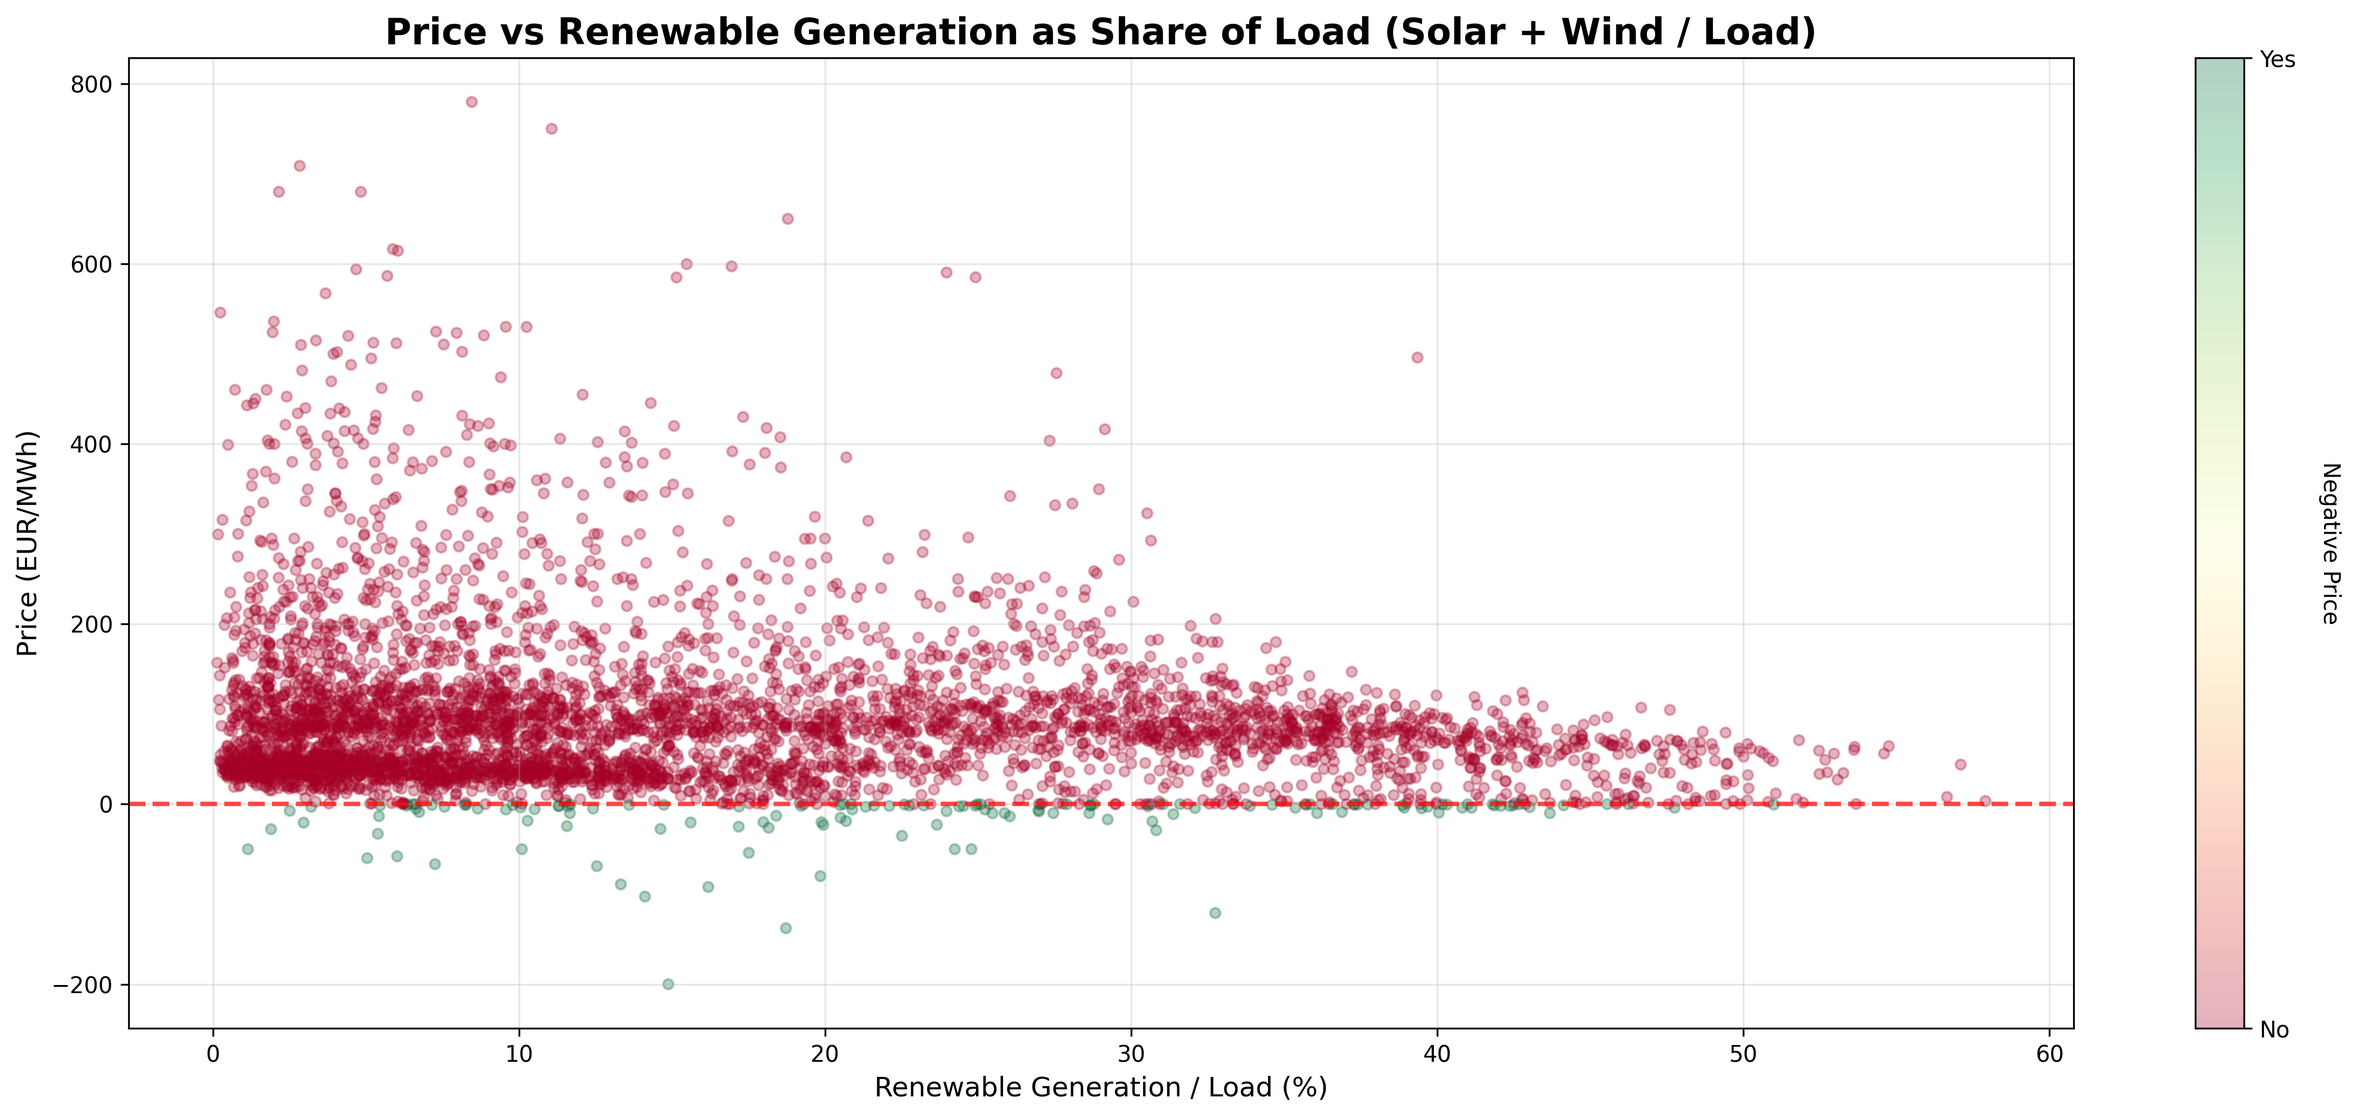
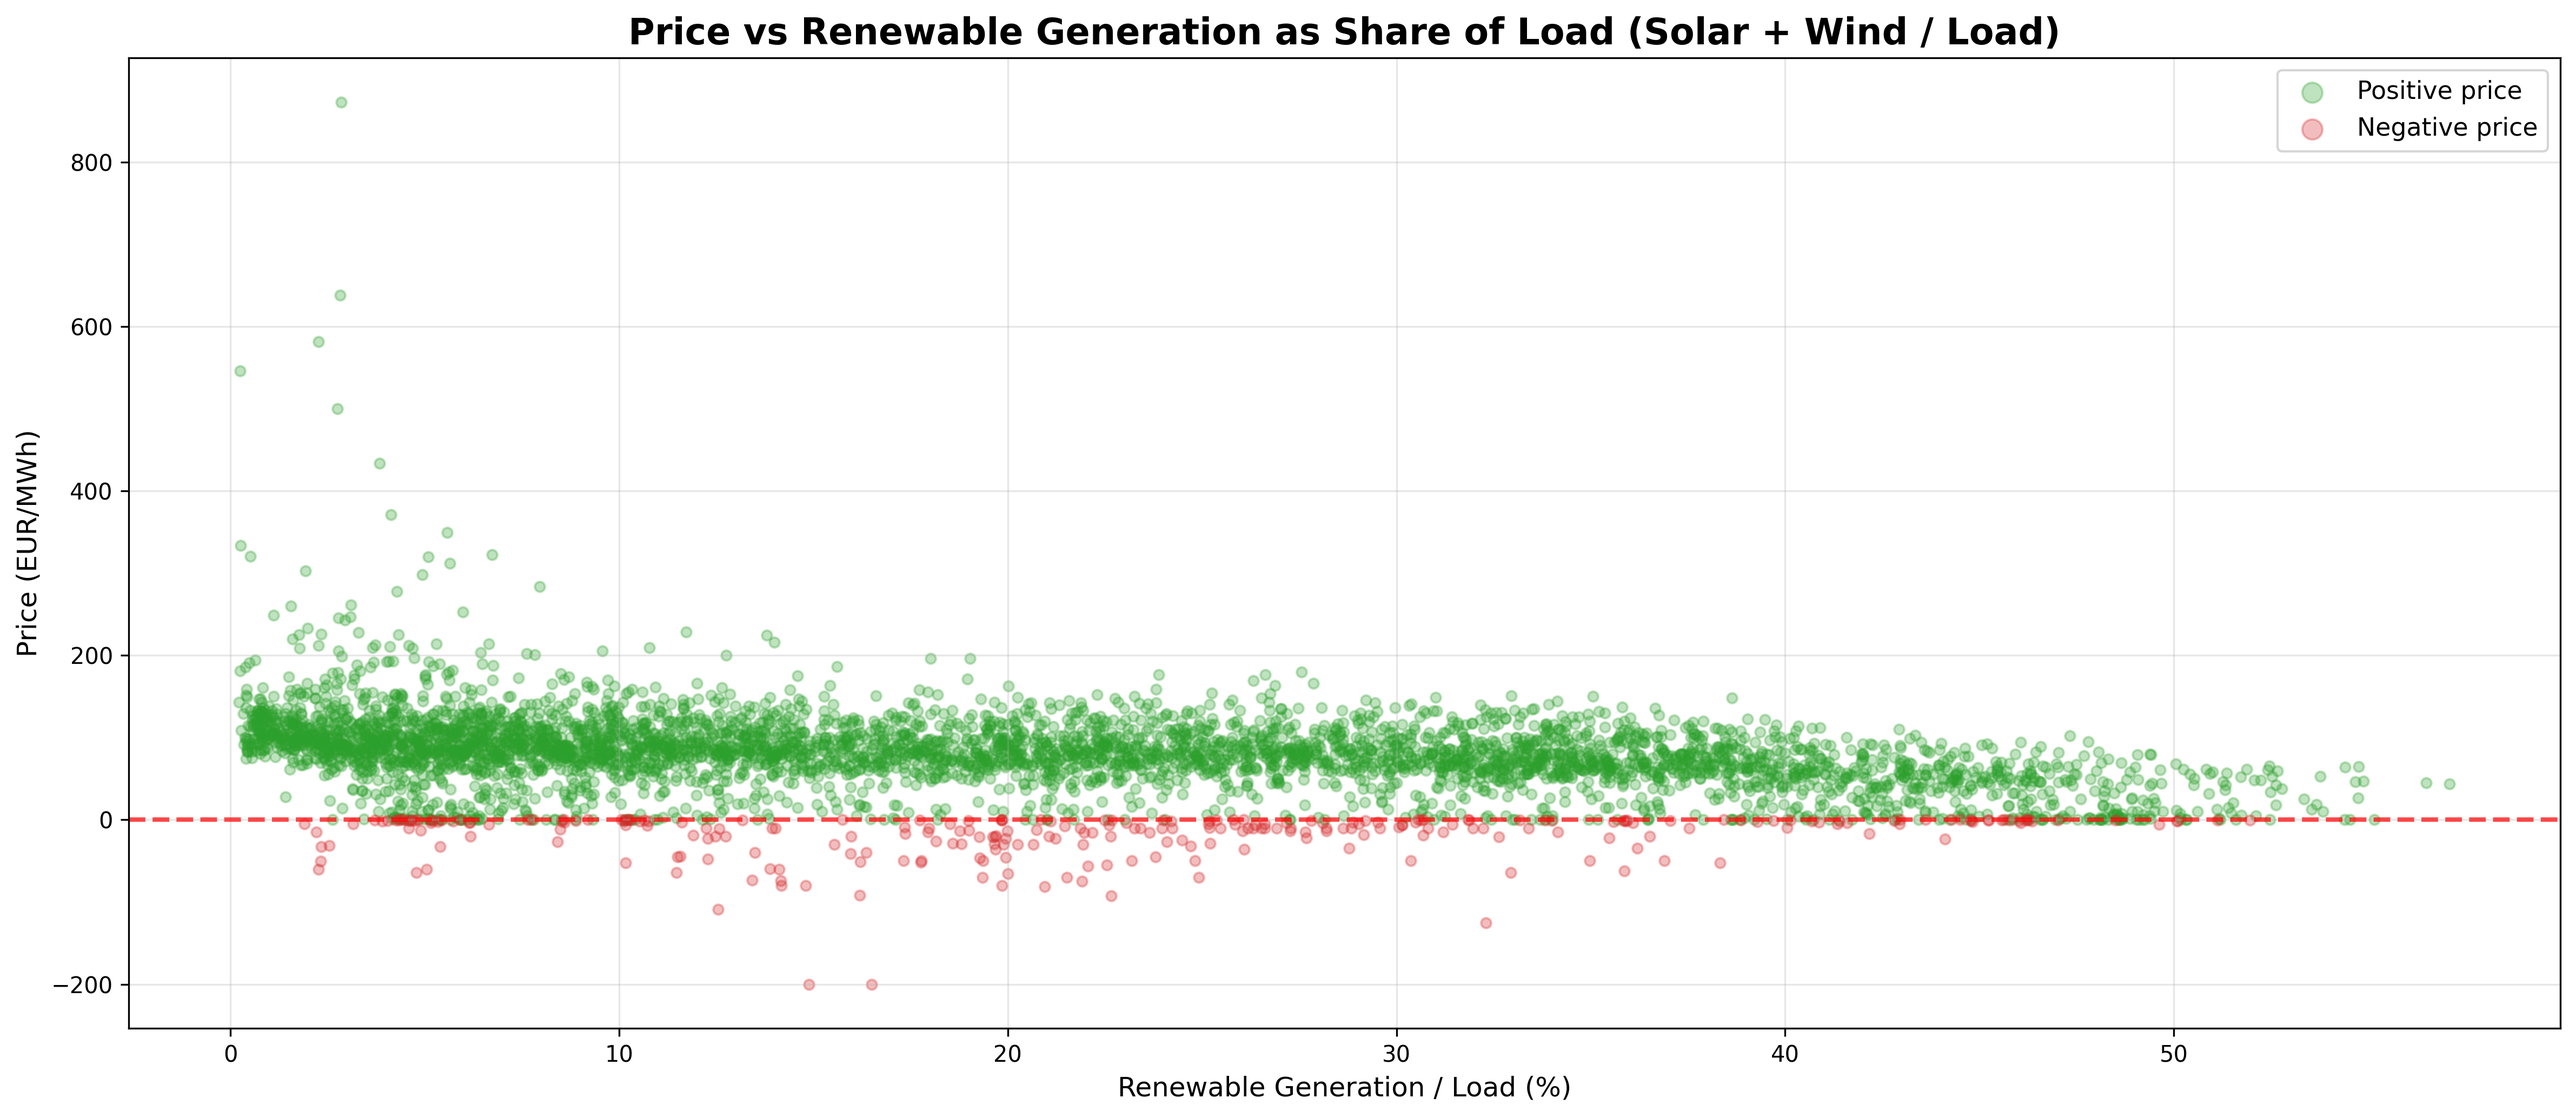
Changes to scatter plot formats

diff --git a/scripts/exploratory_analysis.py b/scripts/exploratory_analysis.py
@@ -342,30 +342,30 @@ sample = merged.sample(n=min(5000, len(merged)), random_state=42)
 fig, axes = plt.subplots(1, 2, figsize=(16, 7))
 
 # Scatter: Solar vs Price
-axes[0].scatter(sample['solar'], sample['price'],
-                alpha=0.3, s=20, c=sample['is_negative'],
-                cmap='RdYlGn', vmin=0, vmax=1)
+mask_pos = sample['is_negative'] == 0
+mask_neg = sample['is_negative'] == 1
+axes[0].scatter(sample.loc[mask_pos, 'solar'], sample.loc[mask_pos, 'price'],
+                alpha=0.3, s=20, color='#2ca02c', label='Positive price')
+axes[0].scatter(sample.loc[mask_neg, 'solar'], sample.loc[mask_neg, 'price'],
+                alpha=0.3, s=20, color='#d62728', label='Negative price')
 axes[0].axhline(y=0, color='red', linestyle='--', linewidth=2, alpha=0.7)
 axes[0].set_title('Price vs Solar Generation', fontsize=14, fontweight='bold')
 axes[0].set_xlabel('Solar Generation (MW)')
 axes[0].set_ylabel('Price (€/MWh)')
 axes[0].grid(True, alpha=0.3)
+axes[0].legend(fontsize=10, markerscale=2)
 
 # Scatter: Total RES vs Price
-scatter = axes[1].scatter(sample['total_res'], sample['price'],
-                         alpha=0.3, s=20, c=sample['is_negative'],
-                         cmap='RdYlGn', vmin=0, vmax=1)
+axes[1].scatter(sample.loc[mask_pos, 'total_res'], sample.loc[mask_pos, 'price'],
+                alpha=0.3, s=20, color='#2ca02c', label='Positive price')
+axes[1].scatter(sample.loc[mask_neg, 'total_res'], sample.loc[mask_neg, 'price'],
+                alpha=0.3, s=20, color='#d62728', label='Negative price')
 axes[1].axhline(y=0, color='red', linestyle='--', linewidth=2, alpha=0.7)
 axes[1].set_title('Price vs Total Renewable Generation', fontsize=14, fontweight='bold')
 axes[1].set_xlabel('Total RES Generation (MW)')
 axes[1].set_ylabel('Price (€/MWh)')
 axes[1].grid(True, alpha=0.3)
-
-# Add colorbar
-cbar = plt.colorbar(scatter, ax=axes[1])
-cbar.set_label('Negative Price', rotation=270, labelpad=20)
-cbar.set_ticks([0, 1])
-cbar.set_ticklabels(['No', 'Yes'])
+axes[1].legend(fontsize=10, markerscale=2)
 
 plt.tight_layout()
 plt.savefig(FIGURES_DIR / '06_price_generation_correlation.png', dpi=300, bbox_inches='tight')
@@ -387,8 +387,8 @@ unified = pd.read_csv(PROCESSED_DATA_DIR / "unified_dataset2.csv",
                        index_col=0, parse_dates=True)
 unified.index = pd.to_datetime(unified.index, utc=True)
 
-# Filter out rows where total_generation_mw is missing or zero
-unified_valid = unified[unified['total_generation_mw'].notna() & (unified['total_generation_mw'] > 0)].copy()
+# Filter to 2024 only, and rows where total_generation_mw is valid and positive
+unified_valid = unified[(unified.index.year == 2024) & unified['total_generation_mw'].notna() & (unified['total_generation_mw'] > 0)].copy()
 
 # Compute renewable proportion
 unified_valid['res_proportion'] = (
@@ -402,20 +402,19 @@ sample_06a = unified_valid.sample(n=min(5000, len(unified_valid)), random_state=
 
 fig, ax = plt.subplots(figsize=(16, 7))
 
-scatter = ax.scatter(sample_06a['res_proportion'] * 100, sample_06a['price_eur_mwh'],
-                     alpha=0.3, s=20, c=sample_06a['is_negative'],
-                     cmap='RdYlGn', vmin=0, vmax=1)
+mask_pos = sample_06a['is_negative'] == 0
+mask_neg = sample_06a['is_negative'] == 1
+ax.scatter(sample_06a.loc[mask_pos, 'res_proportion'] * 100, sample_06a.loc[mask_pos, 'price_eur_mwh'],
+           alpha=0.3, s=20, color='#2ca02c', label='Positive price')
+ax.scatter(sample_06a.loc[mask_neg, 'res_proportion'] * 100, sample_06a.loc[mask_neg, 'price_eur_mwh'],
+           alpha=0.3, s=20, color='#d62728', label='Negative price')
 ax.axhline(y=0, color='red', linestyle='--', linewidth=2, alpha=0.7)
 ax.set_title('Price vs Renewable Generation Proportion (Solar + Wind / Total)',
              fontsize=16, fontweight='bold')
 ax.set_xlabel('Renewable Share of Total Generation (%)', fontsize=12)
 ax.set_ylabel('Price (EUR/MWh)', fontsize=12)
 ax.grid(True, alpha=0.3)
-
-cbar = plt.colorbar(scatter, ax=ax)
-cbar.set_label('Negative Price', rotation=270, labelpad=20)
-cbar.set_ticks([0, 1])
-cbar.set_ticklabels(['No', 'Yes'])
+ax.legend(fontsize=11, markerscale=2)
 
 plt.tight_layout()
 plt.savefig(FIGURES_DIR / '06a_renewable_power_proportion_generation.png', dpi=300, bbox_inches='tight')
@@ -428,8 +427,8 @@ print("[+] Saved: 06a_renewable_power_proportion_generation.png")
 
 print("\n[*] Creating Visualization 06b: Renewable Power Proportion (of Load) vs Price...")
 
-# Filter rows where load_mw is valid and positive
-unified_load = unified[unified['load_mw'].notna() & (unified['load_mw'] > 0)].copy()
+# Filter to 2024 only, and rows where load_mw is valid and positive
+unified_load = unified[(unified.index.year == 2024) & unified['load_mw'].notna() & (unified['load_mw'] > 0)].copy()
 
 # Compute renewable-to-load ratio
 unified_load['res_to_load'] = (
@@ -447,20 +446,19 @@ print(f"   Sampled {len(sample_06b):,} points ({sample_06b['is_negative'].sum()}
 
 fig, ax = plt.subplots(figsize=(16, 7))
 
-scatter = ax.scatter(sample_06b['res_to_load'] * 100, sample_06b['price_eur_mwh'],
-                     alpha=0.3, s=20, c=sample_06b['is_negative'],
-                     cmap='RdYlGn', vmin=0, vmax=1)
+mask_pos = sample_06b['is_negative'] == 0
+mask_neg = sample_06b['is_negative'] == 1
+ax.scatter(sample_06b.loc[mask_pos, 'res_to_load'] * 100, sample_06b.loc[mask_pos, 'price_eur_mwh'],
+           alpha=0.3, s=20, color='#2ca02c', label='Positive price')
+ax.scatter(sample_06b.loc[mask_neg, 'res_to_load'] * 100, sample_06b.loc[mask_neg, 'price_eur_mwh'],
+           alpha=0.3, s=20, color='#d62728', label='Negative price')
 ax.axhline(y=0, color='red', linestyle='--', linewidth=2, alpha=0.7)
 ax.set_title('Price vs Renewable Generation as Share of Load (Solar + Wind / Load)',
              fontsize=16, fontweight='bold')
 ax.set_xlabel('Renewable Generation / Load (%)', fontsize=12)
 ax.set_ylabel('Price (EUR/MWh)', fontsize=12)
 ax.grid(True, alpha=0.3)
-
-cbar = plt.colorbar(scatter, ax=ax)
-cbar.set_label('Negative Price', rotation=270, labelpad=20)
-cbar.set_ticks([0, 1])
-cbar.set_ticklabels(['No', 'Yes'])
+ax.legend(fontsize=11, markerscale=2)
 
 plt.tight_layout()
 plt.savefig(FIGURES_DIR / '06b_renewable_power_proportion_load.png', dpi=300, bbox_inches='tight')
